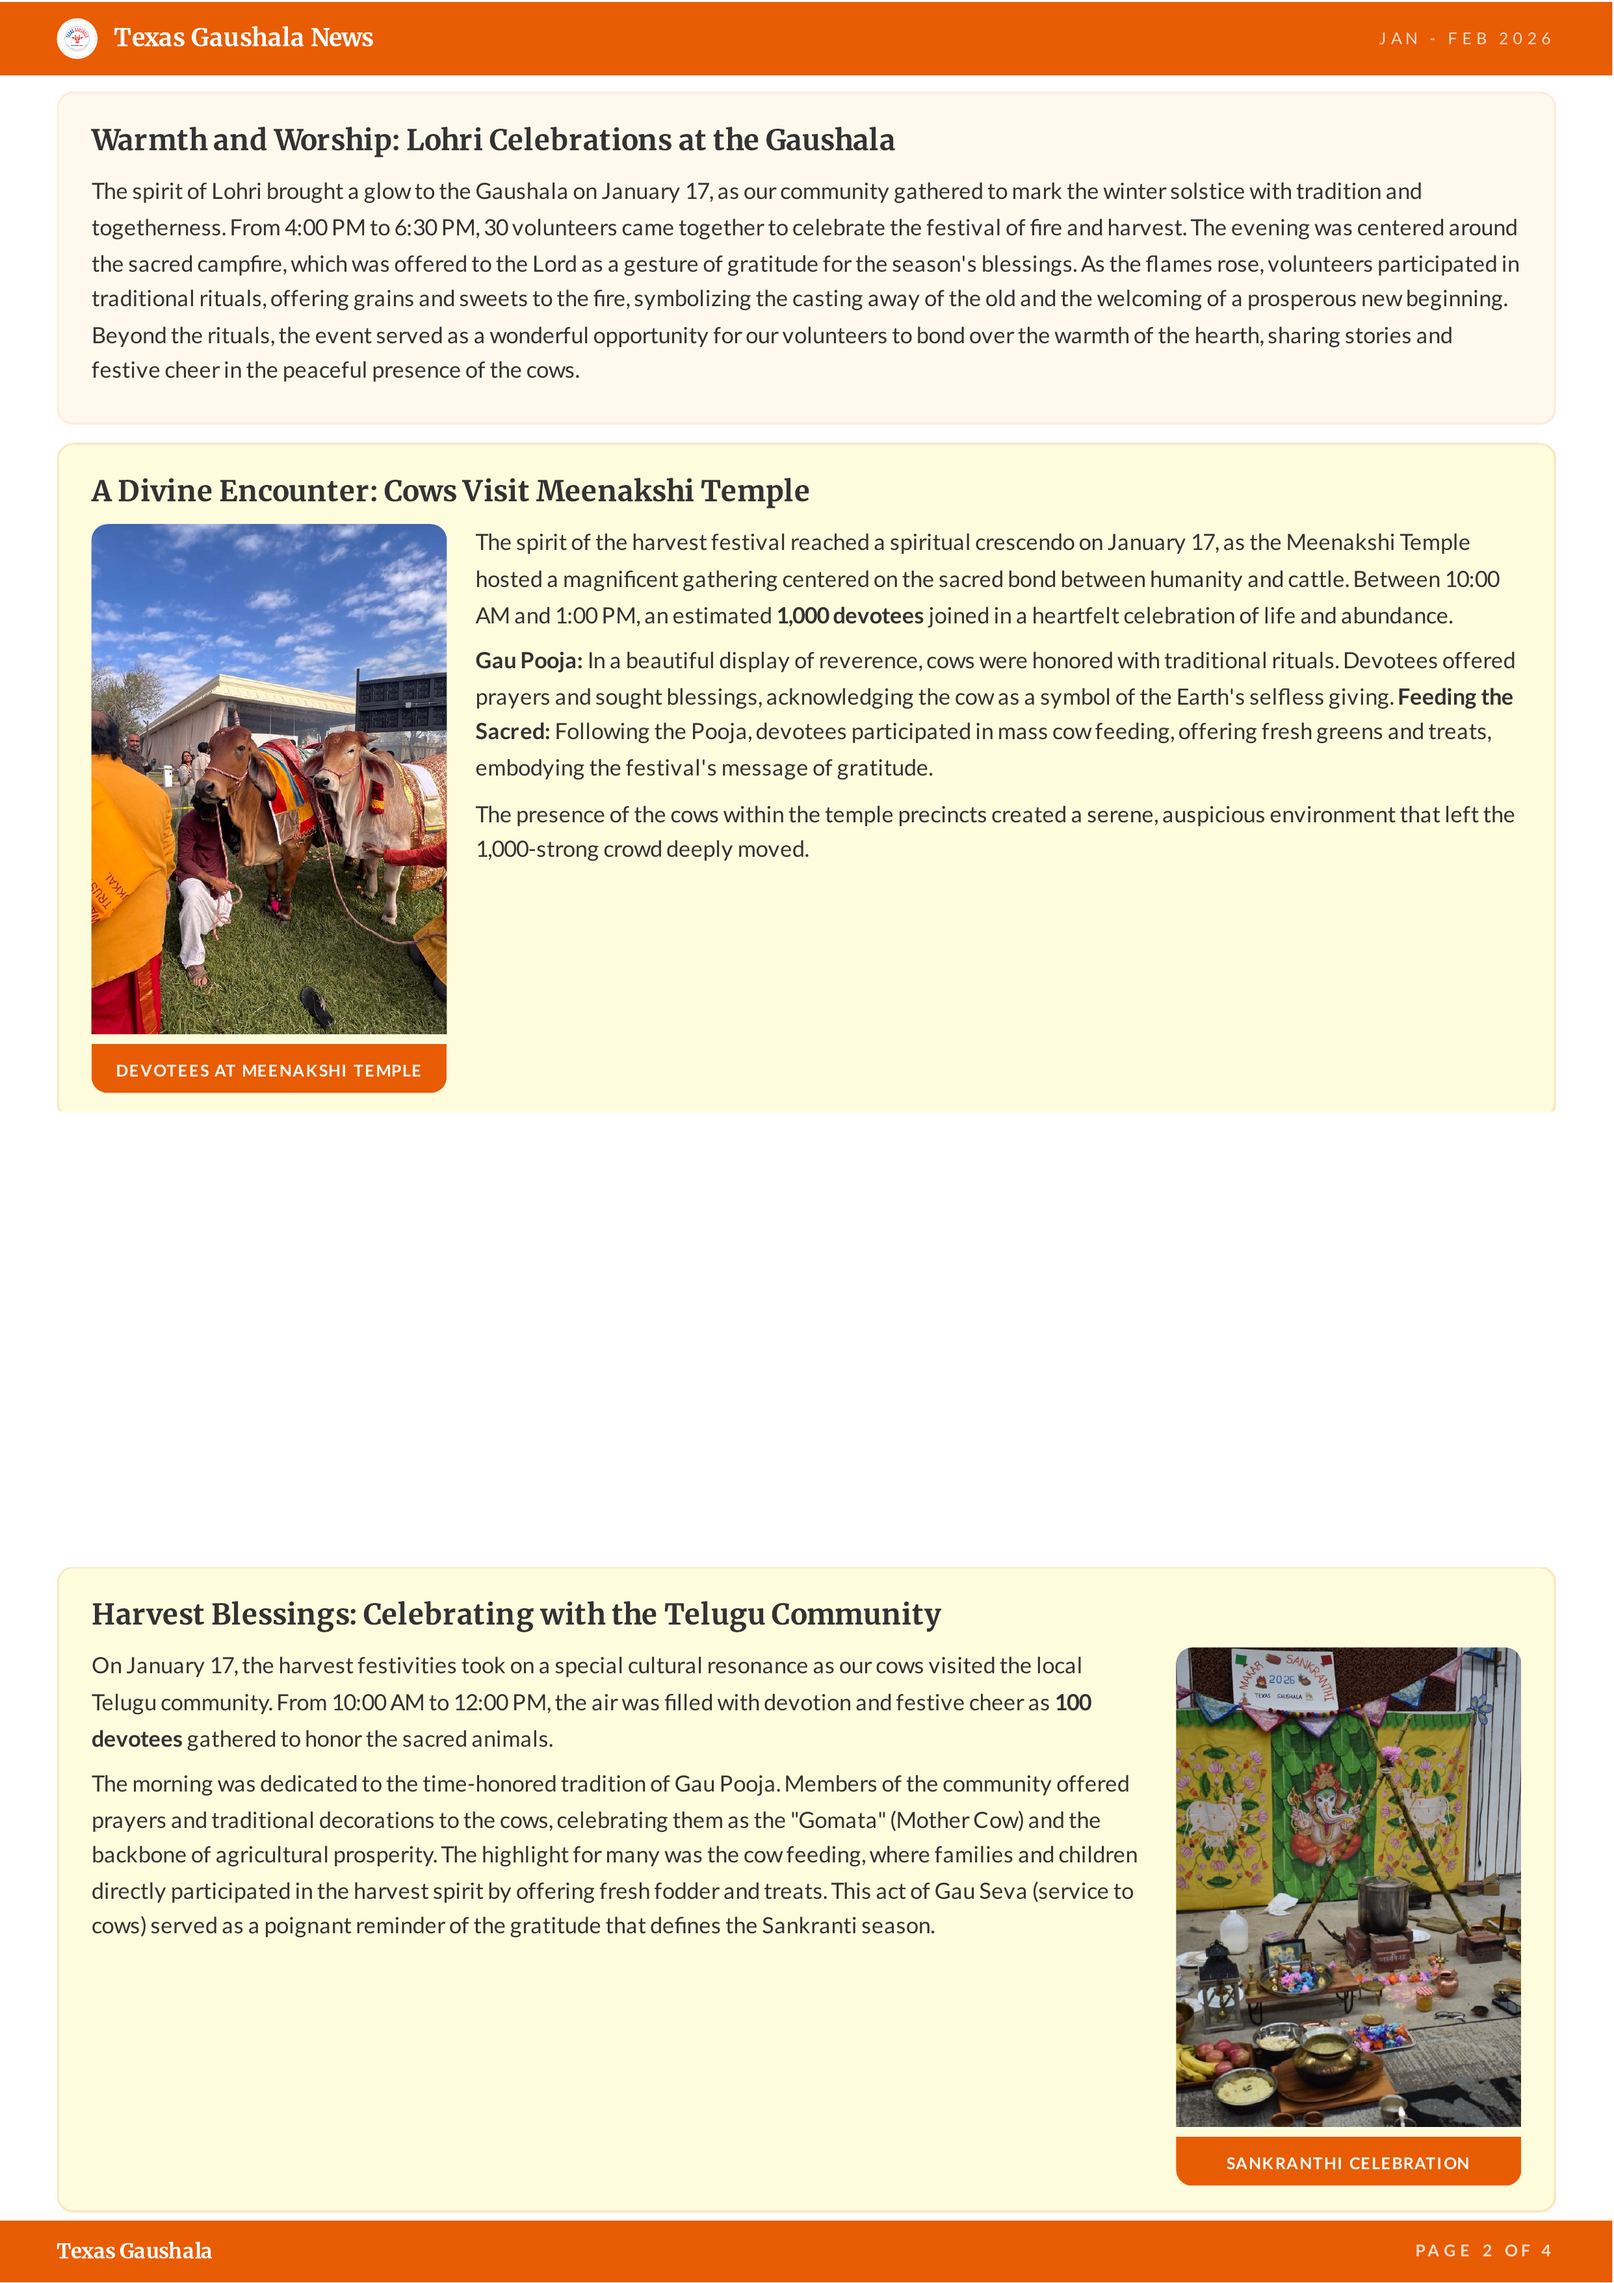
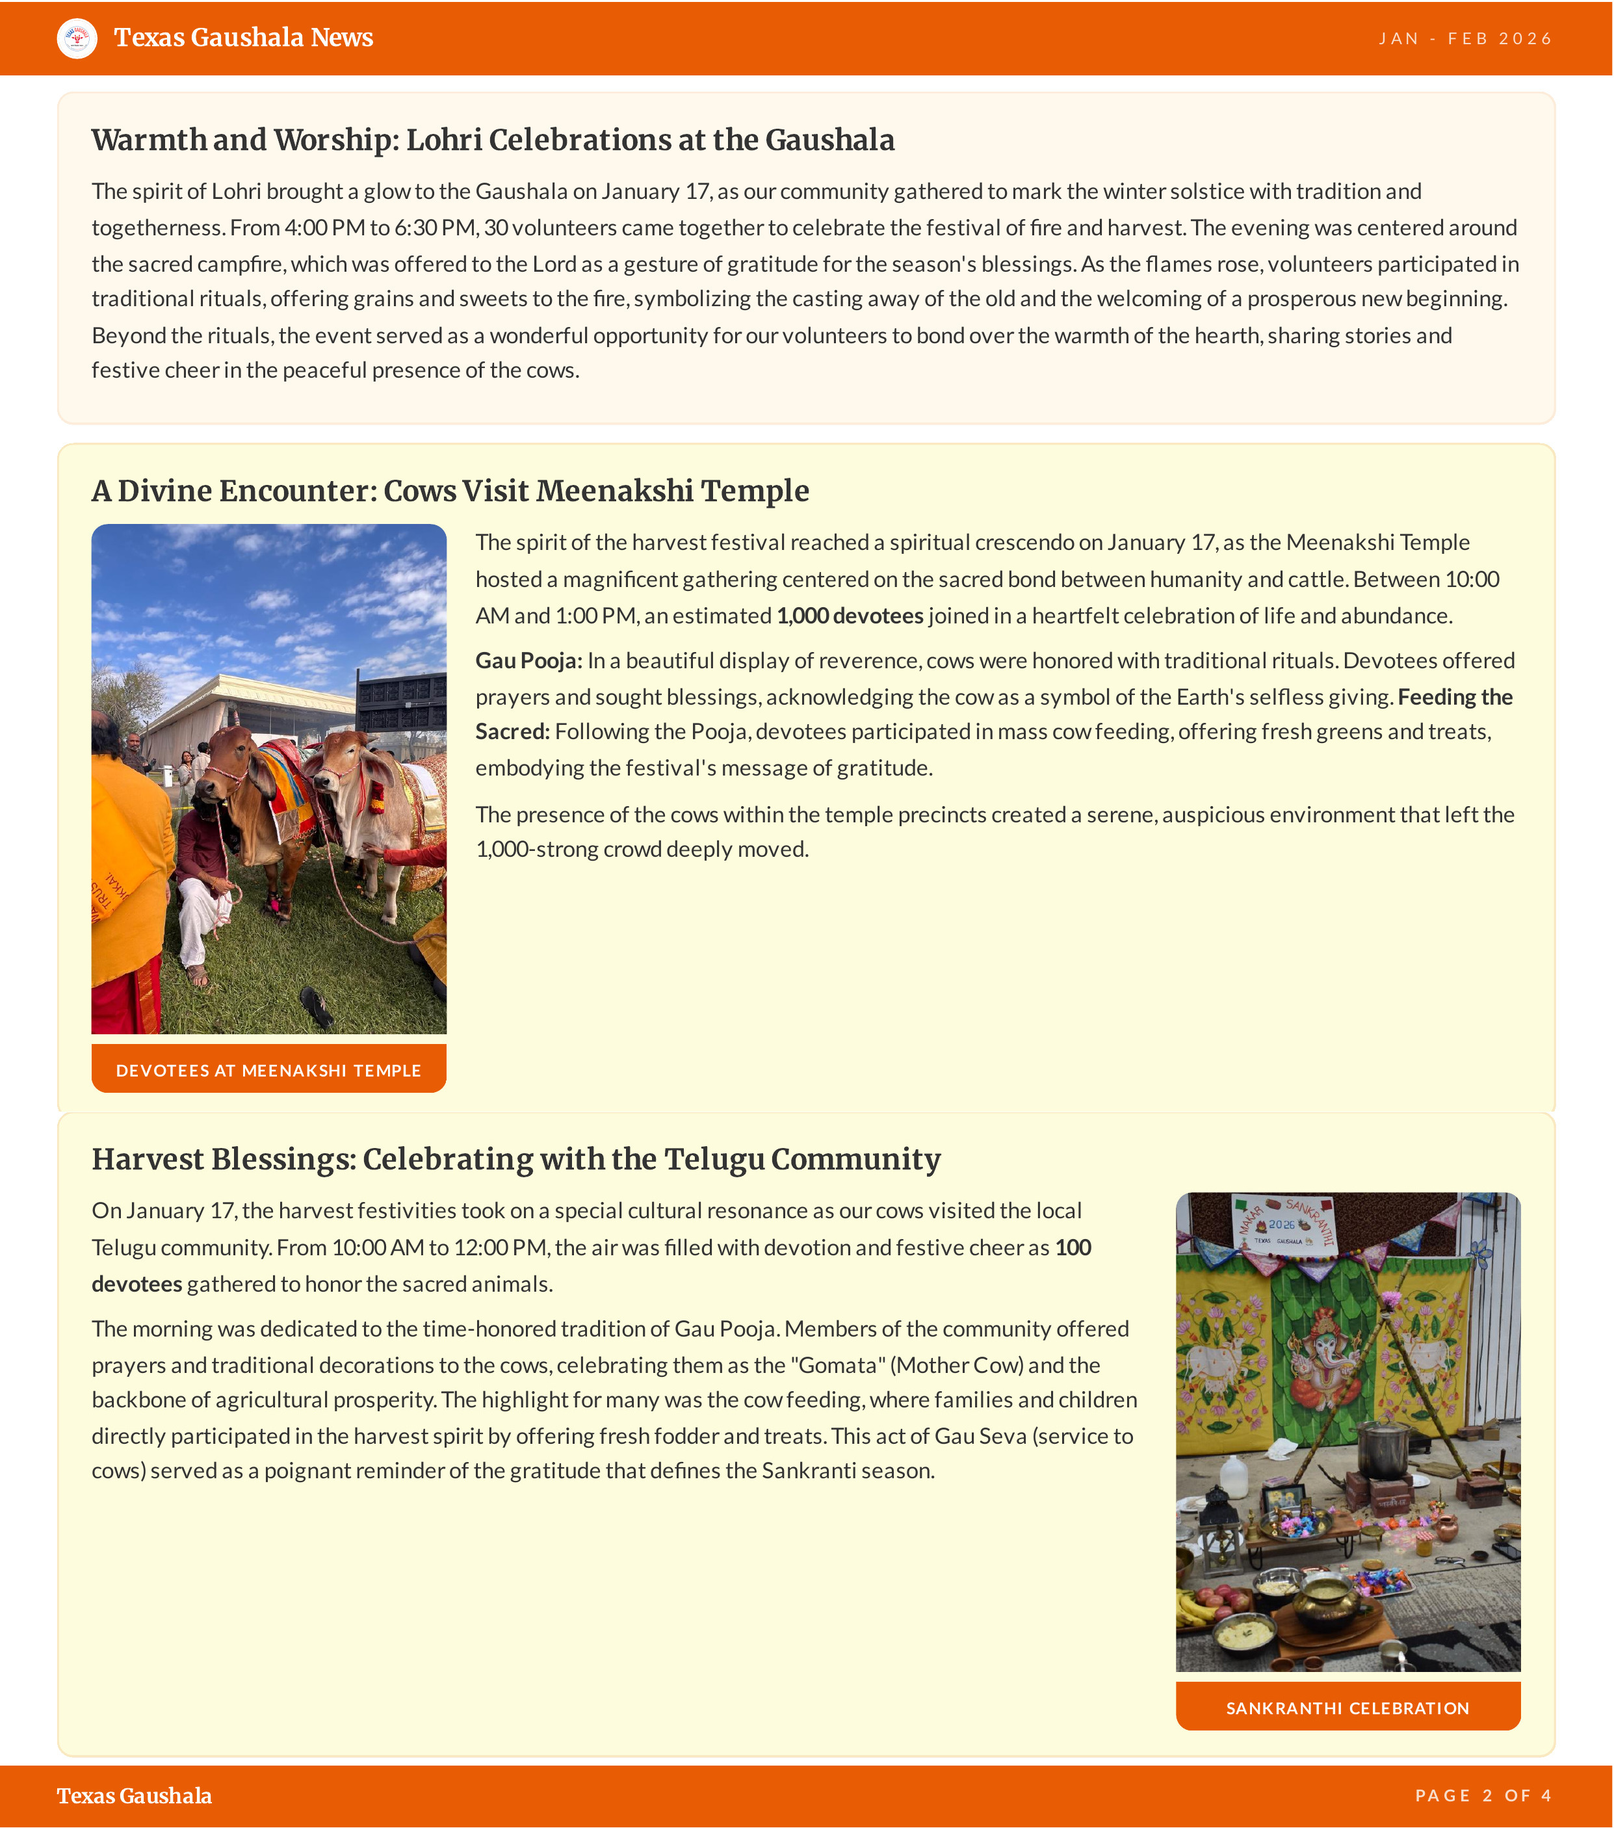
fix: crop white gap from page 2, reposition all overlays, clean Harvest Blessings layout

diff --git a/index.html b/index.html
@@ -108,53 +108,60 @@ Sacred Pooja: A morning ceremony held at the Gaushala to offer thanks and seek b
   <img class="bg" src="images_new/page-2.jpg">
 
   <!-- P2 Images -->
-  <div class="iz" id="img-logo-2" data-label="Logo P2" style="left:1.5%;top:0.4%;width:2.5%;height:2.5%;" onclick="si(this)"><span class="lb">Logo</span></div>
-  <div class="iz" id="img-temple" data-label="Meenakshi Temple" style="left:3%;top:24%;width:27%;height:23%;" onclick="si(this)"><span class="lb">Temple</span></div>
-
-  <div class="iz" id="img-telugu" data-label="Telugu Community" style="left:64%;top:72%;width:33%;height:24%;" onclick="si(this)"><span class="lb">Telugu</span></div>
+  <div class="iz" id="img-logo-2" data-label="Logo P2" style="left:1.5%;top:0.5%;width:3%;height:3.5%;" onclick="si(this)"><span class="lb">Logo</span></div>
+  <div class="iz" id="img-temple" data-label="Meenakshi Temple" style="left:3%;top:30%;width:27%;height:29%;" onclick="si(this)"><span class="lb">Temple</span></div>
 
   <!-- P2 Text -->
-  <div class="tz" contenteditable="true" style="left:4.5%;top:0.7%;width:20%;height:2%;font-size:12px;font-weight:700;">Texas Gaushala News</div>
-  <div class="tz" contenteditable="true" style="left:82%;top:0.7%;width:16%;height:1.5%;font-size:8px;letter-spacing:2px;text-align:right;">JAN - FEB 2026</div>
-  <div class="tz" contenteditable="true" style="left:2.5%;top:4.5%;width:60%;height:2.2%;font-size:16px;font-weight:700;font-family:Georgia,serif;">Warmth and Worship: Lohri Celebrations at the Gaushala</div>
-  <div class="tz" contenteditable="true" style="left:2.5%;top:7.5%;width:66%;height:11%;font-size:8.5px;line-height:1.55;font-family:Georgia,serif;">The spirit of Lohri brought a glow to the Gaushala on January 17, as our community gathered to mark the winter solstice with tradition and togetherness. 30 volunteers came together to celebrate the festival of fire and harvest. The evening was centered around the sacred campfire, which was offered to the Lord as a gesture of gratitude for the season's blessings. As the flames rose, volunteers participated in traditional rituals, offering grains and sweets to the fire, symbolizing the casting away of the old and the welcoming of a prosperous new beginning.
+  <div class="tz" contenteditable="true" style="left:4.5%;top:0.8%;width:20%;height:3%;font-size:12px;font-weight:700;">Texas Gaushala News</div>
+  <div class="tz" contenteditable="true" style="left:82%;top:0.8%;width:16%;height:2%;font-size:8px;letter-spacing:2px;text-align:right;">JAN - FEB 2026</div>
+  <div class="tz" contenteditable="true" style="left:2.5%;top:5.5%;width:60%;height:3%;font-size:16px;font-weight:700;font-family:Georgia,serif;">Warmth and Worship: Lohri Celebrations at the Gaushala</div>
+  <div class="tz" contenteditable="true" style="left:2.5%;top:9%;width:66%;height:14%;font-size:8.5px;line-height:1.55;font-family:Georgia,serif;">The spirit of Lohri brought a glow to the Gaushala on January 17, as our community gathered to mark the winter solstice with tradition and togetherness. 30 volunteers came together to celebrate the festival of fire and harvest. The evening was centered around the sacred campfire, which was offered to the Lord as a gesture of gratitude for the season's blessings. As the flames rose, volunteers participated in traditional rituals, offering grains and sweets to the fire, symbolizing the casting away of the old and the welcoming of a prosperous new beginning.
 
 Beyond the rituals, the event served as a wonderful opportunity for our volunteers to bond over the warmth of the hearth, sharing stories and festive cheer in the peaceful presence of the cows.</div>
-  <!-- Lohri fire image (right side of text) -->
-  <div class="iz" id="img-lohri" data-label="Lohri Celebration" style="left:70%;top:4.5%;width:25%;height:14%;border-radius:6px;overflow:hidden;" onclick="si(this)">
+  <!-- Lohri fire image -->
+  <div class="iz" id="img-lohri" data-label="Lohri Celebration" style="left:70%;top:5.5%;width:25%;height:17%;border-radius:6px;overflow:hidden;" onclick="si(this)">
     <img class="rp" src="images_new/lohri-fire.jpg" style="width:100%;height:100%;object-fit:cover;object-position:center 40%;position:absolute;top:0;left:0;">
     <span class="lb">Lohri Fire</span>
   </div>
-  <div class="tz" contenteditable="true" style="left:3%;top:19.5%;width:55%;height:2.5%;font-size:16px;font-weight:700;font-family:Georgia,serif;">A Divine Encounter: Cows Visit Meenakshi Temple</div>
-  <div class="tz" contenteditable="true" style="left:32%;top:23%;width:65%;height:15%;font-size:8.5px;line-height:1.55;font-family:Georgia,serif;">The spirit of the harvest festival reached a spiritual crescendo on January 17, as the Meenakshi Temple hosted a magnificent gathering centered on the sacred bond between humanity and cattle. An estimated 1,000 devotees joined in a heartfelt celebration of life and abundance.
+  <div class="tz" contenteditable="true" style="left:3%;top:24.5%;width:55%;height:3%;font-size:16px;font-weight:700;font-family:Georgia,serif;">A Divine Encounter: Cows Visit Meenakshi Temple</div>
+  <div class="tz" contenteditable="true" style="left:32%;top:29%;width:65%;height:19%;font-size:8.5px;line-height:1.55;font-family:Georgia,serif;">The spirit of the harvest festival reached a spiritual crescendo on January 17, as the Meenakshi Temple hosted a magnificent gathering centered on the sacred bond between humanity and cattle. An estimated 1,000 devotees joined in a heartfelt celebration of life and abundance.
 
 Gau Pooja: In a beautiful display of reverence, cows were honored with traditional rituals. Devotees offered prayers and sought blessings, acknowledging the cow as a symbol of the Earth's selfless giving. Feeding the Sacred: Following the Pooja, devotees participated in mass cow feeding, offering fresh greens and treats, embodying the festival's message of gratitude.
 
 The presence of the cows within the temple precincts created a serene, auspicious environment that left the 1,000-strong crowd deeply moved.</div>
-  <div class="tz" contenteditable="true" style="left:3%;top:47%;width:27%;height:1.5%;font-size:7px;font-weight:700;letter-spacing:1px;text-align:center;">DEVOTEES AT MEENAKSHI TEMPLE</div>
+  <div class="tz" contenteditable="true" style="left:3%;top:59%;width:27%;height:2%;font-size:7px;font-weight:700;letter-spacing:1px;text-align:center;">DEVOTEES AT MEENAKSHI TEMPLE</div>
 
-  <!-- Telugu heading + text moved up -->
-  <div class="tz" contenteditable="true" style="left:3%;top:50%;width:60%;height:2.5%;font-size:16px;font-weight:700;font-family:Georgia,serif;">Harvest Blessings: Celebrating with the Telugu Community</div>
-  <div class="tz" contenteditable="true" style="left:3%;top:53%;width:60%;height:14%;font-size:8.5px;line-height:1.55;font-family:Georgia,serif;">On January 17, the harvest festivities took on a special cultural resonance as our cows visited the local Telugu community. The air was filled with devotion and festive cheer as 100 devotees gathered to honor the sacred animals.
+  <!-- Harvest Blessings - full overlay to cover original -->
+  <div style="position:absolute;left:2.5%;top:62%;width:95%;background:#FFF9ED;border-radius:8px;padding:1.5% 2%;z-index:15;">
+    <div contenteditable="true" style="font-size:16px;font-weight:700;font-family:Georgia,serif;color:#333;margin-bottom:8px;">Harvest Blessings: Celebrating with the Telugu Community</div>
+    <div style="display:flex;gap:14px;">
+      <div contenteditable="true" style="flex:1;font-size:8.5px;line-height:1.55;font-family:Georgia,serif;color:#333;">On January 17, the harvest festivities took on a special cultural resonance as our cows visited the local Telugu community. The air was filled with devotion and festive cheer as 100 devotees gathered to honor the sacred animals.
 
 The morning was dedicated to the time-honored tradition of Gau Pooja. Members of the community offered prayers and traditional decorations to the cows, celebrating them as the "Gomata" (Mother Cow) and the backbone of agricultural prosperity. The highlight for many was the cow feeding, where families and children directly participated in the harvest spirit by offering fresh fodder and treats. This act of Gau Seva (service to cows) served as a poignant reminder of the gratitude that defines the Sankranti season.</div>
+      <div class="iz" id="img-telugu" data-label="Telugu Community" style="position:relative;width:200px;min-width:200px;height:200px;border-radius:6px;overflow:hidden;flex-shrink:0;" onclick="si(this)">
+        <img src="images_new/telugu.jpg" style="width:100%;height:100%;object-fit:cover;">
+        <span class="lb">Telugu</span>
+      </div>
+    </div>
+    <!-- 3 photos row below text -->
+    <div style="display:flex;gap:8px;margin-top:10px;">
+      <div class="iz" id="img-telugu-group1" data-label="Telugu Group 1" style="position:relative;flex:1;height:140px;border-radius:6px;overflow:hidden;" onclick="si(this)">
+        <img src="images_new/telugu-group1.jpg" style="width:100%;height:100%;object-fit:cover;object-position:center 30%;">
+        <span class="lb">Telugu Group 1</span>
+      </div>
+      <div class="iz" id="img-telugu-cow" data-label="Telugu Cow" style="position:relative;flex:1;height:140px;border-radius:6px;overflow:hidden;" onclick="si(this)">
+        <img src="images_new/telugu-cow.jpg" style="width:100%;height:100%;object-fit:cover;">
+        <span class="lb">Telugu Cow</span>
+      </div>
+      <div class="iz" id="img-telugu-group2" data-label="Telugu Group 2" style="position:relative;flex:1;height:140px;border-radius:6px;overflow:hidden;" onclick="si(this)">
+        <img src="images_new/telugu-group2.jpg" style="width:100%;height:100%;object-fit:cover;object-position:center 30%;">
+        <span class="lb">Telugu Group 2</span>
+      </div>
+    </div>
+  </div>
 
-  <!-- Telugu celebration photos (3 images row) - moved below text -->
-  <div class="iz" id="img-telugu-group1" data-label="Telugu Group 1" style="left:3%;top:78%;width:31%;height:17%;border-radius:6px;overflow:hidden;" onclick="si(this)">
-    <img class="rp" src="images_new/telugu-group1.jpg" style="width:100%;height:100%;object-fit:cover;object-position:center 30%;position:absolute;top:0;left:0;">
-    <span class="lb">Telugu Group 1</span>
-  </div>
-  <div class="iz" id="img-telugu-cow" data-label="Telugu Cow" style="left:35%;top:78%;width:31%;height:17%;border-radius:6px;overflow:hidden;" onclick="si(this)">
-    <img class="rp" src="images_new/telugu-cow.jpg" style="width:100%;height:100%;object-fit:cover;object-position:center center;position:absolute;top:0;left:0;">
-    <span class="lb">Telugu Cow</span>
-  </div>
-  <div class="iz" id="img-telugu-group2" data-label="Telugu Group 2" style="left:67%;top:78%;width:31%;height:17%;border-radius:6px;overflow:hidden;" onclick="si(this)">
-    <img class="rp" src="images_new/telugu-group2.jpg" style="width:100%;height:100%;object-fit:cover;object-position:center 30%;position:absolute;top:0;left:0;">
-    <span class="lb">Telugu Group 2</span>
-  </div>
-  <div class="tz" contenteditable="true" style="left:64%;top:96%;width:33%;height:1.5%;font-size:7px;font-weight:700;letter-spacing:1px;text-align:center;">SANKRANTHI CELEBRATION</div>
-  <div class="tz" contenteditable="true" style="left:2%;top:98%;width:15%;height:1.2%;font-size:10px;font-weight:700;">Texas Gaushala</div>
-  <div class="tz" contenteditable="true" style="left:85%;top:98%;width:13%;height:1%;font-size:7px;letter-spacing:2px;text-align:right;">PAGE 2 OF 4</div>
+  <div class="tz" contenteditable="true" style="left:2%;top:96.5%;width:15%;height:2%;font-size:10px;font-weight:700;">Texas Gaushala</div>
+  <div class="tz" contenteditable="true" style="left:85%;top:96.5%;width:13%;height:1.5%;font-size:7px;letter-spacing:2px;text-align:right;">PAGE 2 OF 4</div>
 </div>
 
 <!-- ===== PAGE 3 ===== -->
